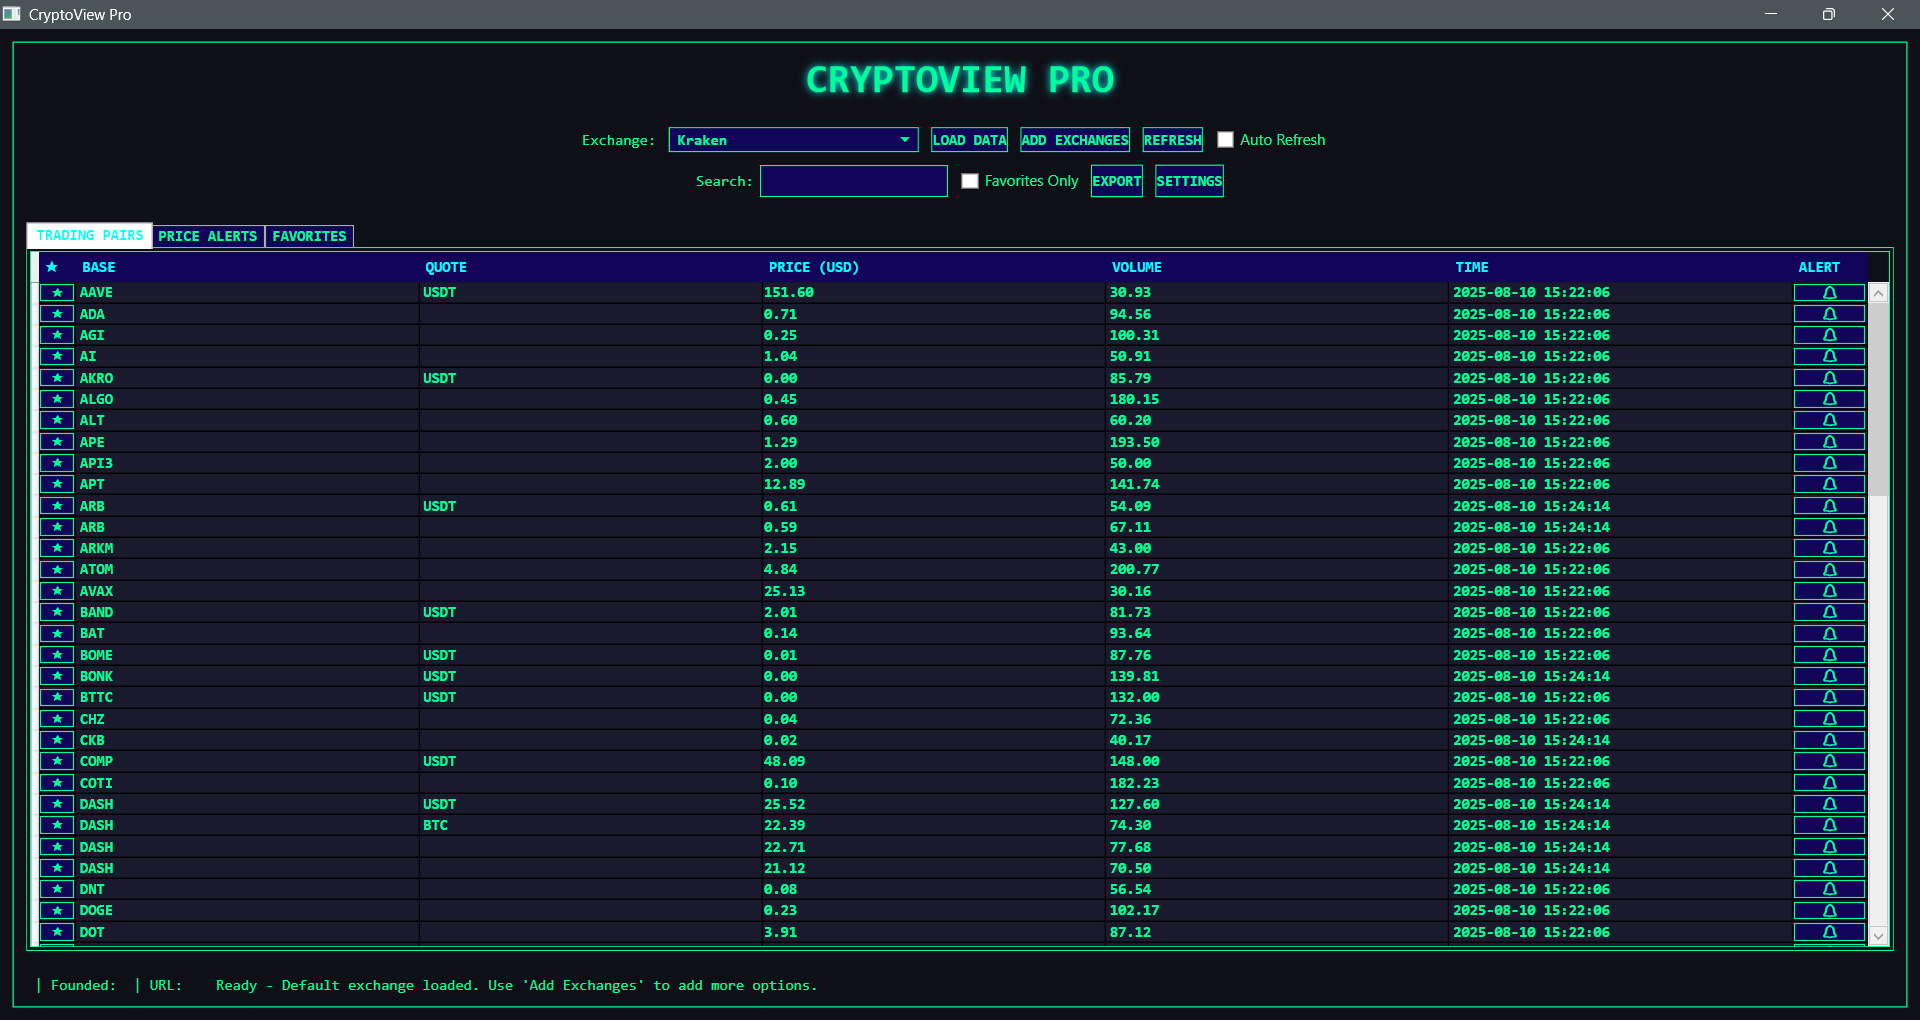
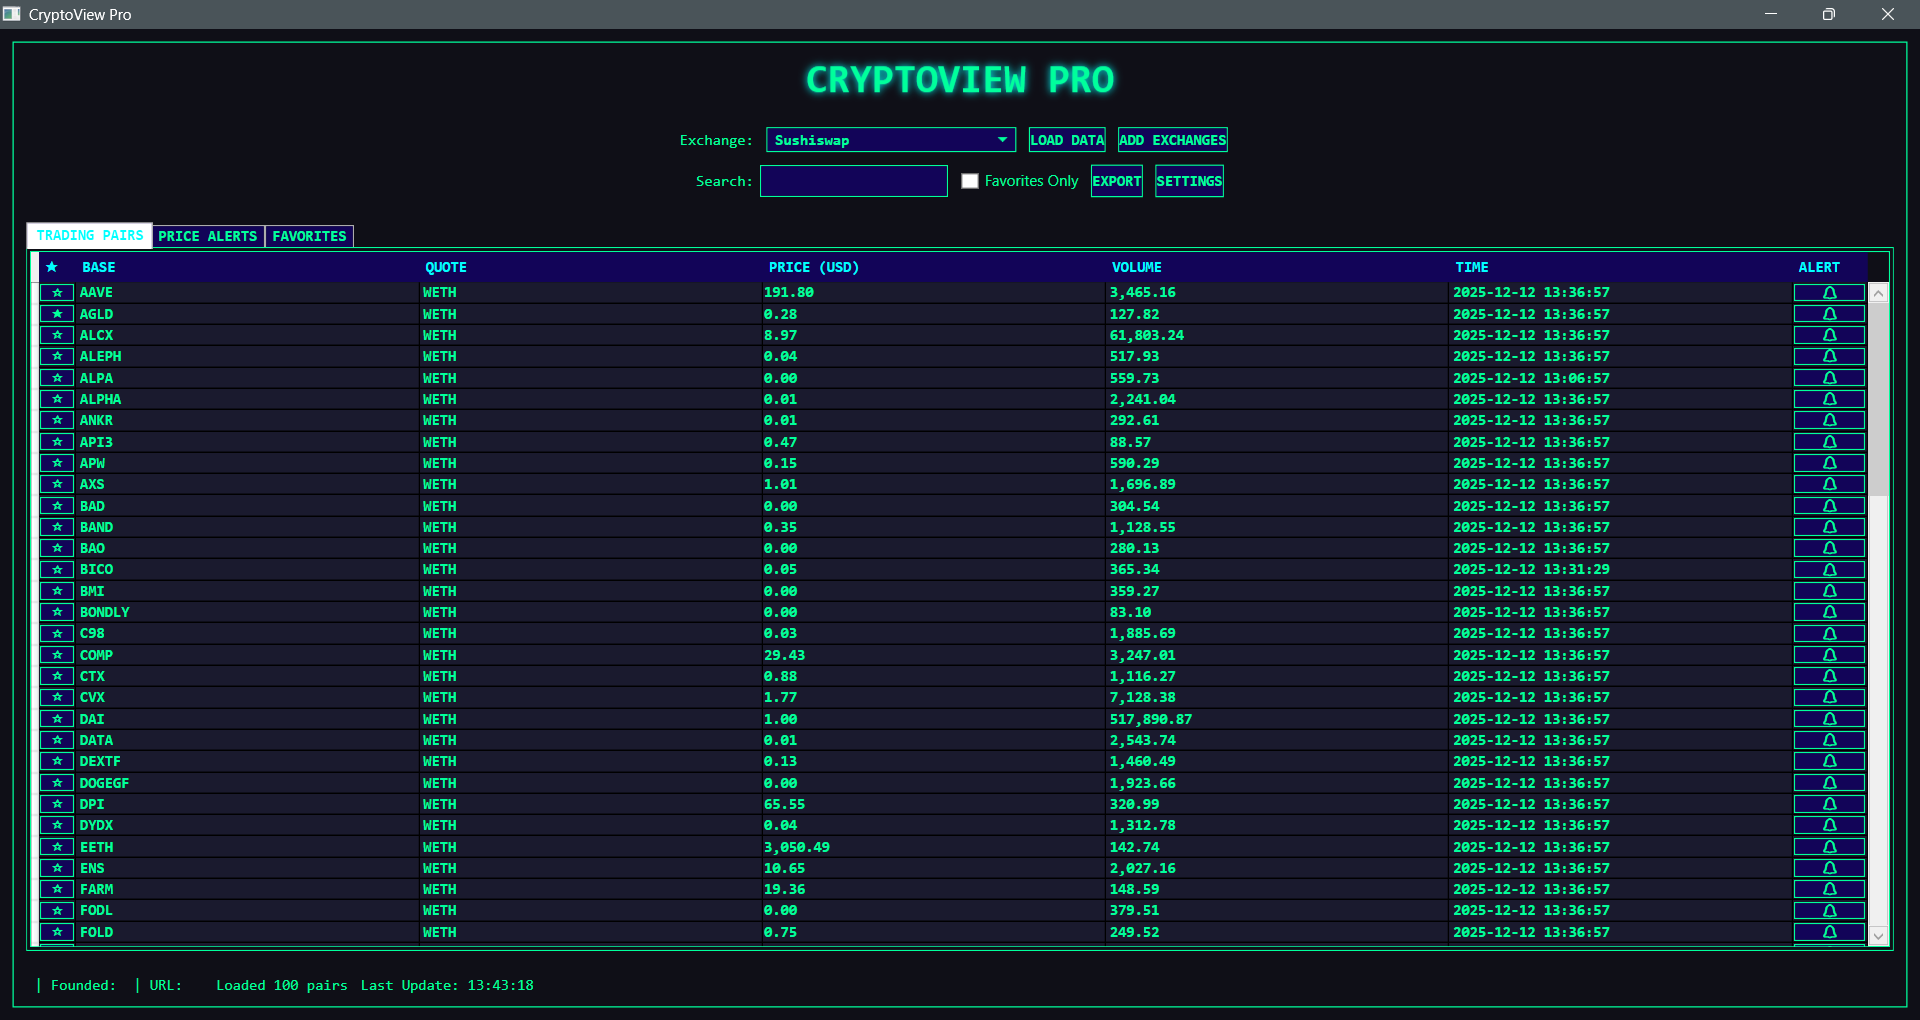
Implemented auto-load on exchange selection and removed the refresh/auto-refresh UI and code.

diff --git a/MainWindow.xaml b/MainWindow.xaml
@@ -208,11 +208,10 @@
             <!-- Exchange selection and controls -->
             <StackPanel Grid.Row="1" Orientation="Horizontal" HorizontalAlignment="Center" Margin="0,10,0,10">
                 <TextBlock Text="Exchange:" VerticalAlignment="Center" Margin="0,0,10,0"/>
-                <ComboBox x:Name="ExchangesComboBox" Width="200" Margin="0,0,10,0"/>
+                <ComboBox x:Name="ExchangesComboBox" Width="200" Margin="0,0,10,0" SelectionChanged="ExchangesComboBox_SelectionChanged"/>
                 <Button x:Name="LoadExchangeButton" Content="LOAD DATA" Style="{StaticResource CyberpunkButton}" Click="LoadExchangeButton_Click" Margin="0,0,10,0"/>
                 <Button x:Name="LoadMoreExchangesButton" Content="ADD EXCHANGES" Style="{StaticResource CyberpunkButton}" Click="LoadMoreExchangesButton_Click" Margin="0,0,10,0"/>
-                <Button x:Name="RefreshButton" Content="REFRESH" Style="{StaticResource CyberpunkButton}" Click="RefreshButton_Click" Margin="0,0,10,0"/>
-                <CheckBox x:Name="AutoRefreshCheckBox" Content="Auto Refresh" VerticalAlignment="Center" Foreground="#00FF9C" Margin="0,0,10,0" Checked="AutoRefreshCheckBox_Checked" Unchecked="AutoRefreshCheckBox_Unchecked"/>
+                <!-- Refresh button and auto-refresh checkbox removed; use Load Data to refresh -->
             </StackPanel>
 
             <!-- Search and filter controls -->

diff --git a/MainWindow.xaml.cs b/MainWindow.xaml.cs
@@ -34,12 +34,12 @@ namespace cryptoview
         private readonly ObservableCollection<TradingPair> _filteredPairs = new();
         private readonly ObservableCollection<PriceAlert> _priceAlerts = new();
         private readonly ObservableCollection<TradingPair> _favoritePairs = new();
-        private readonly System.Timers.Timer _refreshTimer = new();
         private readonly System.Timers.Timer _priceAlertTimer = new();
         private CollectionViewSource? _pairsViewSource;
         private List<string> _favoriteSymbols = new();
         private string _currentSearchText = "";
         private bool _showFavoritesOnly = false;
+        private bool _suppressSelectionChanged = false;
 
         public MainWindow()
         {
@@ -100,7 +100,9 @@ namespace cryptoview
                     {
                         _exchangeMap.Add(exchange.Name, exchange.Id);
                         ExchangesComboBox.Items.Add(exchange.Name);
+                        _suppressSelectionChanged = true;
                         ExchangesComboBox.SelectedIndex = 0;
+                        _suppressSelectionChanged = false;
                         
                         StatusTextBlock.Text = $"Loading {exchange.Name} data...";
                         await LoadExchangeDataAsync(exchange.Id);
@@ -651,7 +653,9 @@ namespace cryptoview
                             // Keep the current selection if it exists
                             if (ExchangesComboBox.SelectedIndex < 0)
                             {
+                                _suppressSelectionChanged = true;
                                 ExchangesComboBox.SelectedIndex = 0;
+                                _suppressSelectionChanged = false;
                             }
                             StatusTextBlock.Text = $"Ready - {validExchanges} exchanges available";
                         }
@@ -708,7 +712,7 @@ namespace cryptoview
             {
                 StatusTextBlock.Text = "Loading additional exchanges...";
                 await LoadExchangesAsync();
-                StatusTextBlock.Text = $"Loaded {ExchangesComboBox.Items.Count} total exchanges. Select any exchange and click 'LOAD DATA'.";
+                StatusTextBlock.Text = $"Loaded {ExchangesComboBox.Items.Count} total exchanges. Select any exchange to load data.";
             }
             catch (Exception ex)
             {
@@ -794,10 +798,7 @@ namespace cryptoview
         }
 
         // Enhanced event handlers for new features
-        private async void RefreshButton_Click(object sender, RoutedEventArgs e)
-        {
-            await RefreshCurrentData();
-        }
+        // NOTE: Refresh button removed - use Load Data button or select a new exchange.
 
         private async Task RefreshCurrentData()
         {
@@ -812,16 +813,14 @@ namespace cryptoview
             }
         }
 
-        private void AutoRefreshCheckBox_Checked(object sender, RoutedEventArgs e)
-        {
-            _refreshTimer.Start();
-            StatusTextBlock.Text = "Auto-refresh enabled";
-        }
+        // Auto-refresh removed; leaving methods out to simplify maintainability
 
-        private void AutoRefreshCheckBox_Unchecked(object sender, RoutedEventArgs e)
+        private async void ExchangesComboBox_SelectionChanged(object sender, SelectionChangedEventArgs e)
         {
-            _refreshTimer.Stop();
-            StatusTextBlock.Text = "Auto-refresh disabled";
+            if (_suppressSelectionChanged) return;
+
+            // Auto-load exchange data when a new selection is made
+            await RefreshCurrentData();
         }
 
         private void SearchTextBox_TextChanged(object sender, TextChangedEventArgs e)
@@ -1231,8 +1230,7 @@ namespace cryptoview
                 if (disposing)
                 {
                     // Dispose managed resources
-                    _refreshTimer?.Stop();
-                    _refreshTimer?.Dispose();
+                    // _refreshTimer removed; no auto-refresh cleanup needed
                     _priceAlertTimer?.Stop();
                     _priceAlertTimer?.Dispose();
                     _httpClient?.Dispose();

diff --git a/Services/DataService.cs b/Services/DataService.cs
@@ -26,12 +26,26 @@ namespace cryptoview.Services
                 try 
                 { 
                     await CleanupFavoritesAsync(); 
+                    await RemoveLegacySettingsAsync();
                 }
                 catch (Exception ex)
                 {
                     System.Diagnostics.Debug.WriteLine($"Error during cleanup: {ex.Message}");
                 }
             });
+        }
+
+        // Delete a specific setting record
+        public async Task DeleteSettingAsync(string key)
+        {
+            using var connection = new SQLiteConnection(_connectionString);
+            await connection.OpenAsync();
+
+            var sql = "DELETE FROM Settings WHERE Key = @Key";
+            using var command = new SQLiteCommand(sql, connection);
+            command.Parameters.AddWithValue("@Key", key);
+
+            await command.ExecuteNonQueryAsync();
         }
 
         public Task ResetDatabaseAsync()
@@ -588,6 +602,23 @@ namespace cryptoview.Services
 
             var result = await command.ExecuteScalarAsync();
             return result?.ToString();
+        }
+
+        // Remove legacy keys that are no longer used by the app
+        private async Task RemoveLegacySettingsAsync()
+        {
+            try
+            {
+                // Remove old keys related to auto-refresh behavior
+                await DeleteSettingAsync("AutoRefresh");
+                await DeleteSettingAsync("RefreshInterval");
+
+                System.Diagnostics.Debug.WriteLine("Removed legacy settings keys: AutoRefresh, RefreshInterval");
+            }
+            catch (Exception ex)
+            {
+                System.Diagnostics.Debug.WriteLine($"Error removing legacy settings: {ex.Message}");
+            }
         }
     }
 }

diff --git a/Models/DataModels.cs b/Models/DataModels.cs
@@ -153,8 +153,7 @@ namespace cryptoview.Models
 
     public class UserSettings
     {
-        public int RefreshInterval { get; set; } = 30; // seconds
-        public bool AutoRefresh { get; set; } = false;
+        // Refresh interval and auto-refresh settings were removed; use manual refresh via 'LOAD DATA'
         public string Theme { get; set; } = "Cyberpunk";
         public bool SoundAlertsEnabled { get; set; } = true;
         public List<string> FavoriteSymbols { get; set; } = new();

diff --git a/README.md b/README.md
@@ -10,14 +10,14 @@ A comprehensive desktop application built with WPF/.NET that displays cryptocurr
 - **Live Exchange Data**: Fetch cryptocurrency exchange information from the Coinlore API
 - **Multiple Exchange Support**: View trading pairs from various exchanges with smart filtering
 - **Robust Parsing**: Handles multiple API response formats with fallback mechanisms
-- **Real-time Updates**: Auto-refresh with configurable intervals and manual refresh options
+- **Real-time Updates**: Manual refresh via 'LOAD DATA' and last update timestamp
 
 ### Advanced Features
 - **🌟 Favorites System**: Mark and manage favorite trading pairs with persistent storage
 - **🔔 Price Alerts**: Set custom price alerts with above/below target notifications
 - **🔍 Search & Filter**: Real-time search and filtering capabilities
 - **📊 Data Export**: Export data to CSV format with timestamped files
-- **⏱ Auto-Refresh**: Configurable automatic data updates every 30 seconds
+- **⏱ Auto-Refresh**: Removed from the UI; use 'LOAD DATA' to refresh exchange data
 - **📈 Price Indicators**: Visual price change indicators (▲▼) for trend tracking
 
 ### User Interface
@@ -66,8 +66,8 @@ A comprehensive desktop application built with WPF/.NET that displays cryptocurr
 ### Basic Operations
 1. **Initial Setup**: The application automatically loads and filters valid exchanges on startup
 2. **Select Exchange**: Choose an exchange from the dropdown menu
-3. **Load Data**: Click "LOAD DATA" to fetch trading pairs for the selected exchange
-4. **Auto-Refresh**: Enable the auto-refresh checkbox for continuous updates
+3. **Select Exchange**: Choose an exchange from the dropdown to auto-load data
+4. **Load Data**: Click "LOAD DATA" to manually refresh data for the currently selected exchange
 5. **Search**: Use the search box to filter trading pairs by symbol or name
 
 ### Advanced Features
@@ -87,7 +87,7 @@ A comprehensive desktop application built with WPF/.NET that displays cryptocurr
 
 4. **Settings**:
    - Access application settings via the "SETTINGS" button
-   - Configure refresh intervals and other preferences
+   - Configure other preferences
 
 ## 📁 File Structure
 

diff --git a/ENHANCEMENTS.md b/ENHANCEMENTS.md
@@ -8,12 +8,11 @@ CryptoView Pro is an enhanced version of the original CryptoView application wit
 ### 1. **Enhanced User Interface**
 - **Larger Window Size**: Increased from 900x600 to 1200x700 pixels
 - **Tabbed Interface**: Organized content into Trading Pairs, Price Alerts, and Favorites tabs
-- **Advanced Controls**: Added search, filters, auto-refresh, and export functionality
+- **Advanced Controls**: Added search, filters, and export functionality
 - **Enhanced Styling**: Improved button styles and color schemes
 
-### 2. **Real-time Data Management**
-- **Auto-refresh**: Optional automatic data refresh every 30 seconds
-- **Manual Refresh**: Dedicated refresh button for on-demand updates
+-### 2. **Real-time Data Management**
+- **Manual Refresh**: Use the 'LOAD DATA' button to refresh the currently selected exchange
 - **Last Update Timestamp**: Shows when data was last refreshed
 - **Price Change Indicators**: Visual indicators (▲▼) for price movements
 
@@ -105,10 +104,9 @@ CREATE TABLE Settings (
 ## 🔧 Usage Instructions
 
 ### Basic Operations
-1. **Select Exchange**: Choose from the dropdown (auto-filtered for valid exchanges)
-2. **Load Data**: Click "LOAD DATA" to fetch trading pairs
-3. **Auto-refresh**: Enable checkbox for automatic updates
-4. **Search**: Type in search box to filter pairs
+1. **Select Exchange**: Choose from the dropdown (auto-filtered for valid exchanges) — exchange data loads automatically when selected
+2. **Load Data**: Click "LOAD DATA" to manually refresh trading pairs for the currently selected exchange
+3. **Search**: Type in search box to filter pairs
 
 ### Advanced Features
 1. **Add to Favorites**: Click ★ button next to any trading pair

diff --git a/IMPROVEMENTS_SUMMARY.md b/IMPROVEMENTS_SUMMARY.md
@@ -6,7 +6,7 @@
 |---------|-------------------|----------------|
 | **Window Size** | 900x600 | 1200x700 |
 | **Layout** | Single view | Tabbed interface |
-| **Data Refresh** | Manual only | Manual + Auto-refresh |
+| **Data Refresh** | Manual only | Manual only |
 | **Search** | ❌ None | ✅ Real-time search |
 | **Favorites** | ❌ None | ✅ Persistent favorites |
 | **Price Alerts** | ❌ None | ✅ Custom alerts |
@@ -20,7 +20,7 @@
 ### Enhanced Header
 ```
 [CRYPTOVIEW PRO]
-Exchange: [Dropdown] [LOAD DATA] [REFRESH] [✓ Auto Refresh]
+Exchange: [Dropdown] [LOAD DATA]
 Search: [______] [✓ Favorites Only] [EXPORT] [SETTINGS]
 ```
 
@@ -119,7 +119,7 @@ CREATE TABLE Settings (
 
 ### User Experience
 - **Responsive UI**: Smooth interactions
-- **Real-time Updates**: Live data refresh
+- **Real-time Updates**: Manual refresh via 'LOAD DATA' and Last Update timestamp
 - **Error Recovery**: Graceful error handling
 - **Data Persistence**: Settings saved between sessions
 
@@ -143,7 +143,7 @@ CREATE TABLE Settings (
 ### For Users:
 - **50% More Screen Real Estate**: Larger interface
 - **3x More Features**: Favorites, alerts, export
-- **Real-time Monitoring**: Auto-refresh capability
+- **Real-time Monitoring**: Manual data load via 'LOAD DATA' and Last Update timestamp
 - **Data Persistence**: No loss of preferences
 - **Better Organization**: Tabbed interface
 
